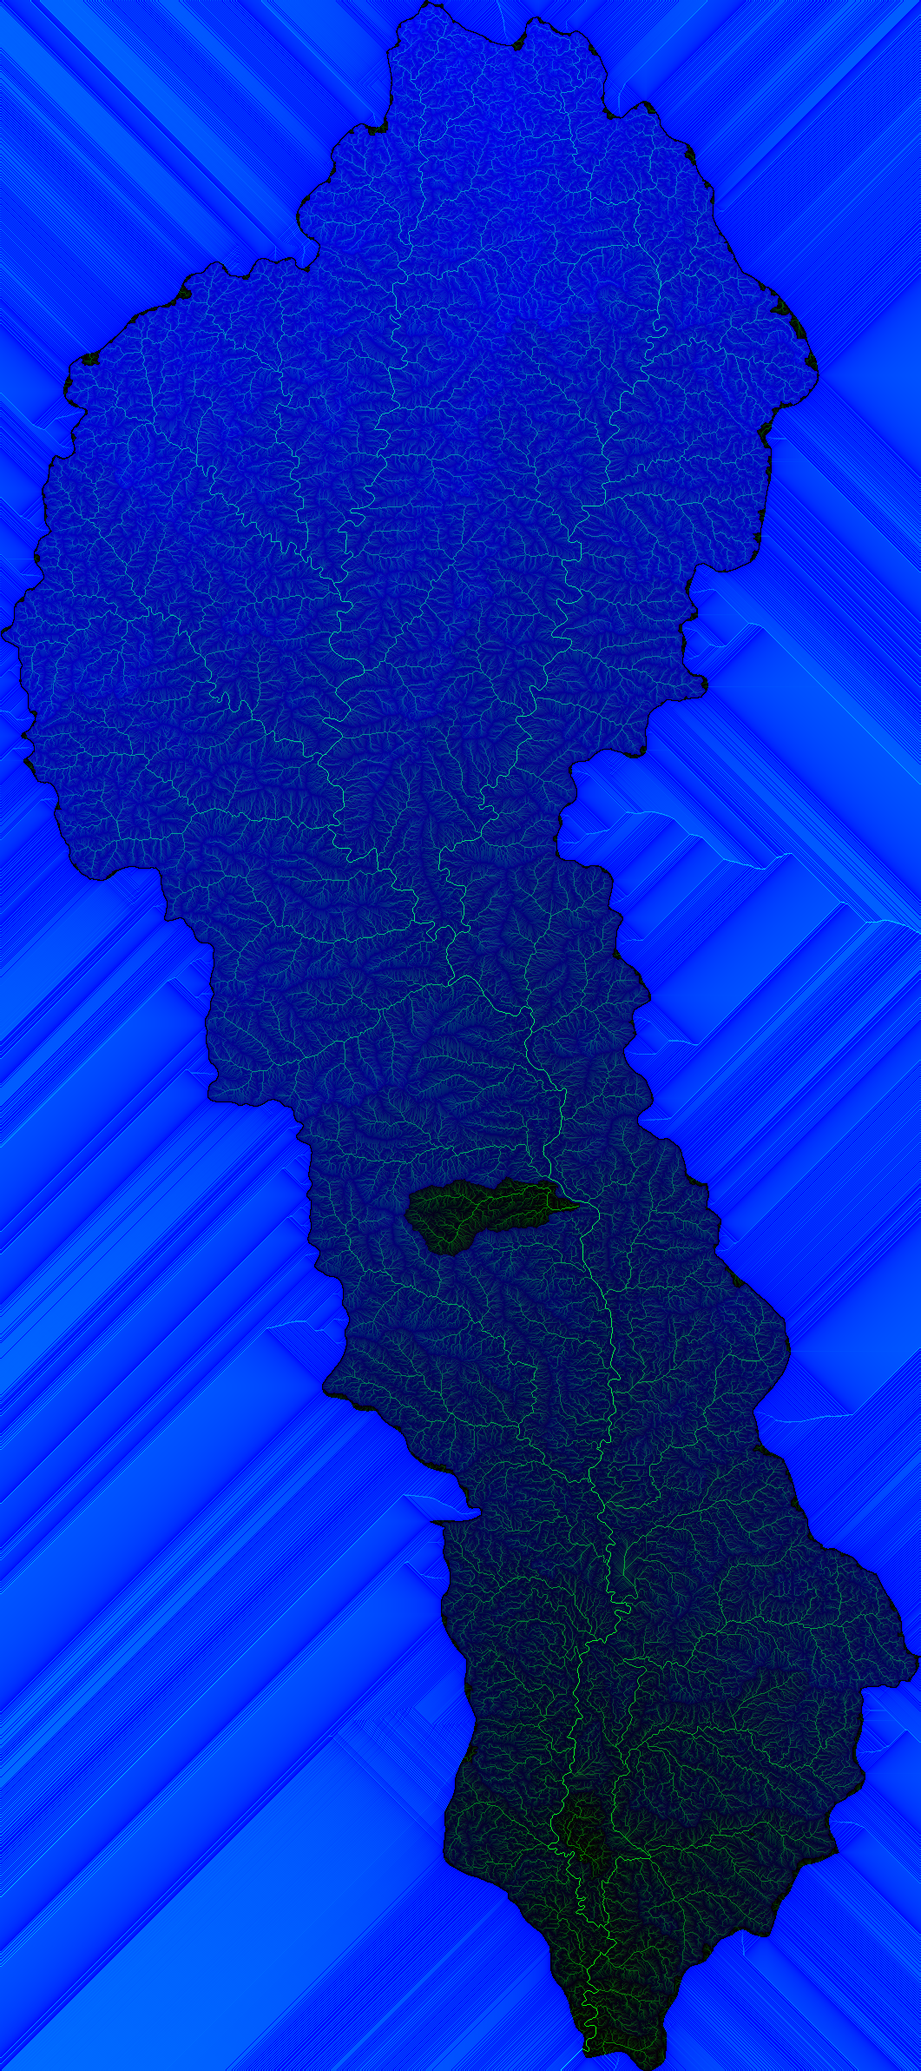
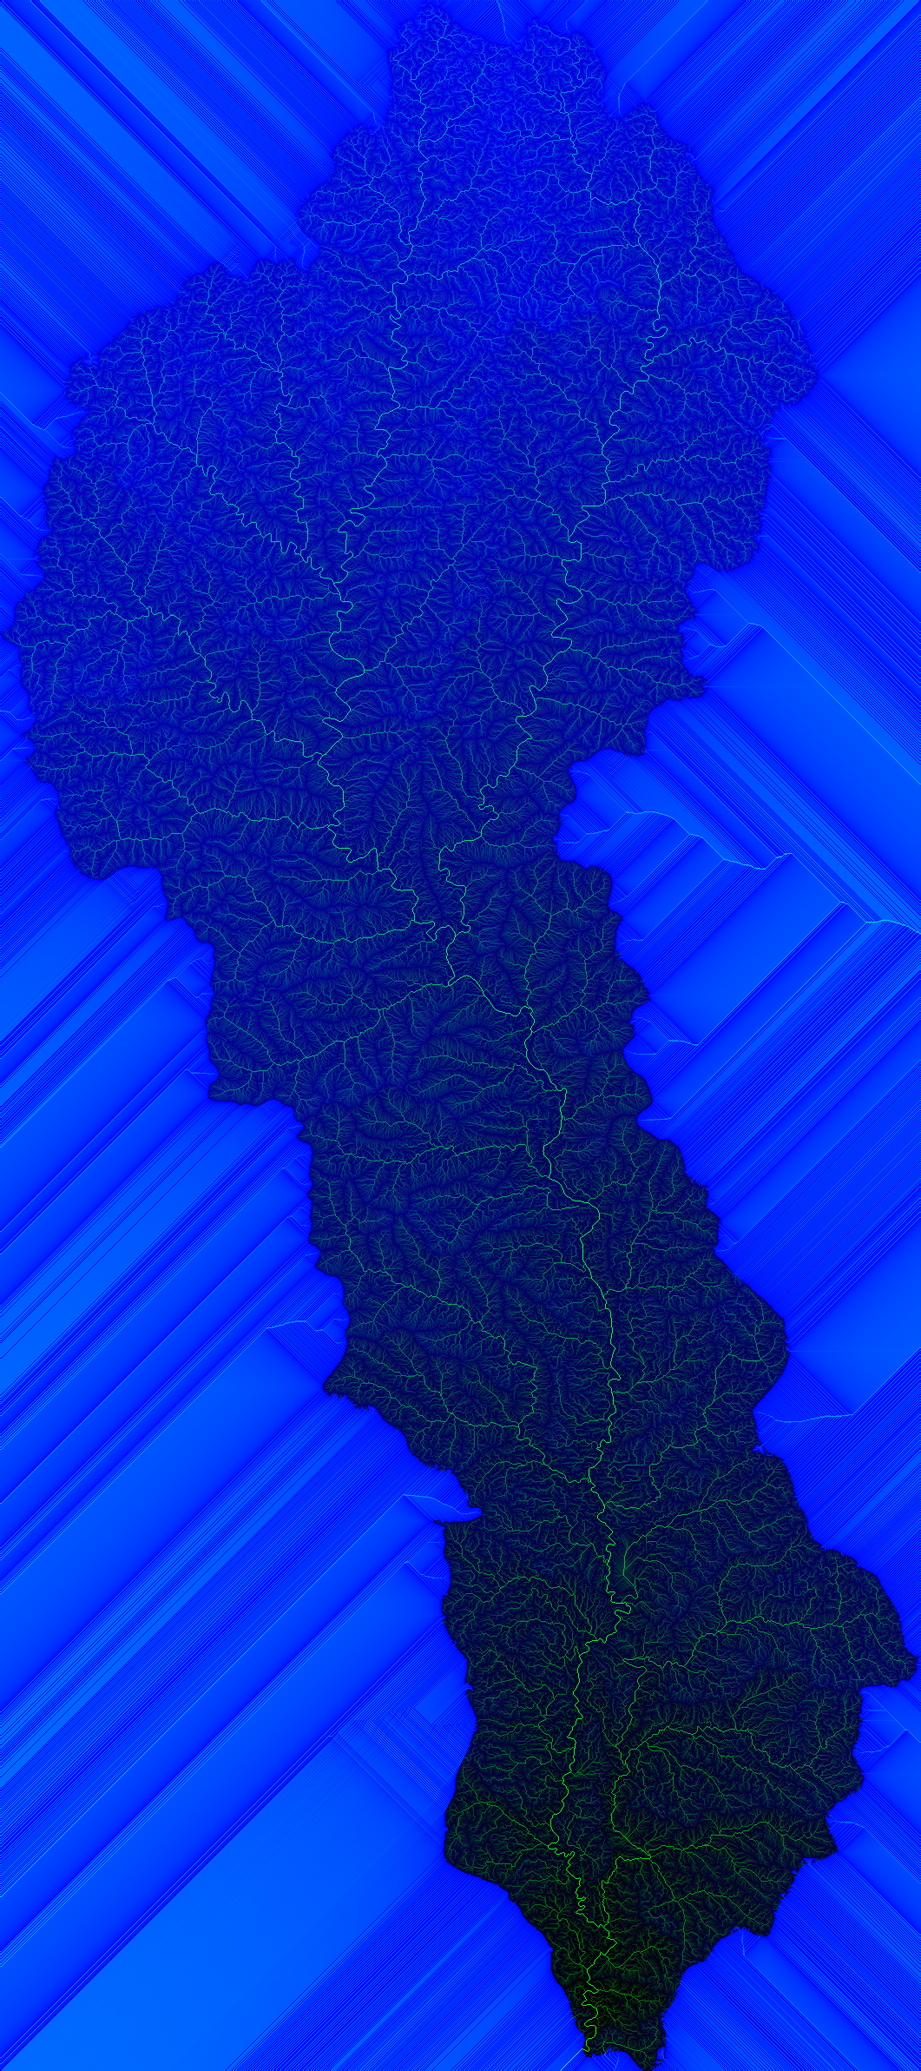
Tempo até a foz: liga as áreas planas da várzea e marca as bordas que saem da bacia
O D8 deixava 2.626 células planas sem direção; tudo que escoava para elas e as
células da borda que saem do contorno ficavam com tempo 0. Agora as planas são
ligadas à célula mais próxima que chega na foz, e o que sai pela borda (0,8%)
fica em cinza e fora do hidrograma.

Claude-Session: https://claude.ai/code/session_01Jto5KDE7a9mbw95tFGG1gU

diff --git a/public/index.html b/public/index.html
@@ -260,7 +260,7 @@ button:focus-visible, input:focus-visible { outline: 2px solid var(--accent); ou
     <section class="box note" aria-labelledby="h-como">
       <div class="label" id="h-como">Como funciona</div>
       <p>O caminho da água vem do <b>modelo de terreno de 30 m</b>: cada ponto escoa para o vizinho mais baixo, e somando esses caminhos aparecem os arroios e rios. É o mesmo cálculo usado em QGIS para delimitar bacias.</p>
-      <p>O tempo até a foz usa velocidades típicas: <b>0,3 m/s</b> escorrendo pela encosta, <b>1,0 m/s</b> nos arroios e <b>1,5 m/s</b> nos rios principais. A vazão é calculada pelo método tempo-área, sem o amortecimento da cheia ao longo do rio.</p>
+      <p>O tempo até a foz usa velocidades típicas: <b>0,3 m/s</b> escorrendo pela encosta, <b>1,0 m/s</b> nos arroios e <b>1,5 m/s</b> nos rios principais. A vazão é calculada pelo método tempo-área, sem o amortecimento da cheia ao longo do rio. Numa faixa estreita das bordas, menos de 1% da área (em cinza na camada Tempo até a foz) escoa, pelo modelo de terreno, para fora do contorno oficial da bacia e não entra no cálculo da foz.</p>
       <p>Quanto da chuva vira enxurrada sai do método <b>SCS Curva-Número</b>: cada ponto recebe um número conforme o uso do solo (MapBiomas 2025) e o grupo hidrológico do solo (mapa de solos 1:250.000, classificado conforme Sartori, Lombardi Neto e Genovez, 2005). Floresta em solo profundo retém muito; lavoura em Neossolo raso escoa muito. O mapa de solos é grosseiro para uma propriedade; ensaios de infiltração em campo melhoram bastante a estimativa local.</p>
       <p>Os números servem para <b>comparar lugares e cenários</b> e entender a dinâmica. Para valores absolutos de vazão é preciso calibrar com medições de chuva e vazão.</p>
       <p>O nível de cheia marca como alagado todo ponto cuja altura acima do rio mais próximo é menor que o nível escolhido. A altura do rio é a do ponto mais baixo do terreno a até 90 m do canal, porque o modelo de terreno mede o topo da mata ciliar e deixaria o rio mais alto que a várzea. A área alagada não conta o próprio leito do rio. O terreno tem precisão vertical de alguns metros, então os primeiros 1 a 2 m mostram as partes mais baixas da várzea.</p>
@@ -321,7 +321,7 @@ button:focus-visible, input:focus-visible { outline: 2px solid var(--accent); ou
     return new Promise((ok, erro) => { const im = new Image(); im.onload = () => { const c = document.createElement("canvas"); c.width = im.width; c.height = im.height; const x = c.getContext("2d", { willReadFrequently: true }); x.drawImage(im, 0, 0); ok(x.getImageData(0, 0, im.width, im.height).data); }; im.onerror = erro; im.src = src; });
   }
 
-  Promise.all([carregar("dados.png?v=a708c5e72c"), carregar("base.png?v=1ba96aa9d7"), carregar("fluxo.png?v=9b2d0b3344"), carregar("solo.png?v=1a3ed8eed0"), fetch("meta.json?v=f7c0bc054a").then((r) => r.json())]).then(([d, b, f, so, m]) => {
+  Promise.all([carregar("dados.png?v=a708c5e72c"), carregar("base.png?v=1ba96aa9d7"), carregar("fluxo.png?v=60249eba4d"), carregar("solo.png?v=1a3ed8eed0"), fetch("meta.json?v=dc3eba142c").then((r) => r.json())]).then(([d, b, f, so, m]) => {
     meta = m;
     handA = new Uint8Array(N); handR = new Uint8Array(N); uso = new Uint8Array(N); canal = new Uint8Array(N); hsg = new Uint8Array(N); app = new Uint8Array(N);
     sombra = new Uint8Array(N); regiao = new Uint8Array(N); dentro = new Uint8Array(N); dir = new Uint8Array(N); accl = new Uint8Array(N); tt = new Uint8Array(N);
@@ -376,7 +376,8 @@ button:focus-visible, input:focus-visible { outline: 2px solid var(--accent); ou
       let c = [sl[0] + (sh[0] - sl[0]) * t, sl[1] + (sh[1] - sl[1]) * t, sl[2] + (sh[2] - sl[2]) * t];
       if (st.uso && uso[i]) c = mix(c, pal.uso[uso[i]].map((v) => v * (0.55 + 0.45 * t)), 0.55);
       if (st.esc && qmm) { const f = Math.min(qmm[i] / st.chuva, 1); const dp = pal["--drop"]; c = mix(c, dp.map((v) => v * (0.55 + 0.45 * t)), 0.1 + 0.8 * f); }
-      if (st.iso) { const f = Math.min(tt[i] / tmax, 1); c = mix(c, [i0[0] + (i1[0] - i0[0]) * f, i0[1] + (i1[1] - i0[1]) * f, i0[2] + (i1[2] - i0[2]) * f].map((v) => v * (0.6 + 0.4 * t)), 0.6); }
+      if (st.iso && tt[i] >= 253) c = mix(c, [128, 128, 128], 0.55);
+      else if (st.iso) { const f = Math.min(tt[i] / tmax, 1); c = mix(c, [i0[0] + (i1[0] - i0[0]) * f, i0[1] + (i1[1] - i0[1]) * f, i0[2] + (i1[2] - i0[2]) * f].map((v) => v * (0.6 + 0.4 * t)), 0.6); }
       if (st.sel && st.sel[i]) c = mix(c, sc, 0.42);
       if (banda && tt[i] <= t10 && tt[i] > t10 - 10) c = mix(c, bc, 0.75);
       const hv = H_[i];
@@ -430,7 +431,7 @@ button:focus-visible, input:focus-visible { outline: 2px solid var(--accent); ou
     if (st.sel) h += `<span><span class="sw" style="background:var(--sel)"></span>área que escoa para o ponto</span>`;
     if (st.banda && st.t > 0) h += `<span><span class="sw" style="background:var(--band)"></span>de onde vem a água que passa na foz agora</span>`;
     if (pulso) h += `<span>gotas: chuva de 1 h descendo até a foz</span>`;
-    if (st.iso) h += `<span>tempo até a foz: 0 h <span class="ramp sw" style="width:70px;background:linear-gradient(90deg,var(--iso-near),var(--iso-far))"></span> ${fmt(meta.fluxo.t_max_h, 0)} h</span>`;
+    if (st.iso) h += `<span>tempo até a foz: 0 h <span class="ramp sw" style="width:70px;background:linear-gradient(90deg,var(--iso-near),var(--iso-far))"></span> ${fmt(meta.fluxo.t_max_h, 0)} h</span><span><span class="sw" style="background:#808080"></span>escoa para fora da bacia</span>`;
     if (st.esc) h += `<span>enxurrada: pouca <span class="ramp sw" style="width:60px;background:linear-gradient(90deg,var(--shade-lo),var(--drop))"></span> toda a chuva</span>`;
     if (st.dc && dcEst.length) h += `<span><span class="sw" style="background:#69a82f;border-radius:50%"></span><span class="sw" style="background:#faba00;border-radius:50%"></span><span class="sw" style="background:#e67819;border-radius:50%"></span><span class="sw" style="background:#e20228;border-radius:50%"></span>rio: normal → inundação</span><span><span class="sw" style="background:var(--drop);border-radius:50%"></span>pluviômetro (chuva 24 h)</span>`;
     if (st.pluv && pluvEst.length) h += `<span><span class="sw" style="background:var(--pluv-u)"></span>UNISC</span><span><span class="sw" style="background:var(--pluv-c);clip-path:polygon(50% 0,100% 100%,0 100%)"></span>CEMADEN (chuva em 24 h)</span>`;
@@ -553,7 +554,7 @@ button:focus-visible, input:focus-visible { outline: 2px solid var(--accent); ou
     const area = n * PX_KM2;
     $("s-area").textContent = area < 10 ? fmt(area, 2) : fmt(area, 0);
     $("s-dist").textContent = fmt(dist / 1000, 1);
-    $("s-tempo").textContent = fmt(tt[i] / 10, 1);
+    $("s-tempo").textContent = tt[i] >= 253 ? "–" : fmt(tt[i] / 10, 1);
     $("s-perc").textContent = fmt(area / meta.area_bacia_km2 * 100, area / meta.area_bacia_km2 < 0.01 ? 2 : 1) + "%";
     const tot = Math.max(1, n);
     $("s-uso").innerHTML = USO.map((u, k) => ({ u, k, v: porUso[k] })).filter((o) => o.u && o.v / tot >= 0.01).sort((a, b) => b.v - a.v).slice(0, 5)
@@ -597,7 +598,7 @@ button:focus-visible, input:focus-visible { outline: 2px solid var(--accent); ou
     for (let k = 0; k < validos.length; k++) {
       const i = validos[k], u = uso[i] || 3, h = hsg[i] || 3, qb = Lb[u * 5 + h];
       const ua = st.appOn && app[i] && u !== 7 && u !== 8 ? 1 : u, q = temCen ? Lc[ua * 5 + h] : qb;
-      qmm[i] = q; volH[tt[i]] += q * 0.9; volBase[tt[i]] += qb * 0.9; soma += q;
+      qmm[i] = q; if (tt[i] < 253) { volH[tt[i]] += q * 0.9; volBase[tt[i]] += qb * 0.9; } soma += q;
     }
     $("k-esc").textContent = fmt(soma / validos.length / Pm * 100, 0) + "%";
     $("k-vol").textContent = fmt(soma * 0.9 / 1e6, 1);
@@ -693,7 +694,7 @@ button:focus-visible, input:focus-visible { outline: 2px solid var(--accent); ou
     if (i < 0 || !dentro[i]) { p.hidden = true; return; }
     const akm = Math.pow(10, accl[i] / 40) * PX_KM2, hv = (st.ref === "rios" ? handR : handA)[i];
     const u = USO[uso[i]] ? USO[uso[i]].nome : "sem classe";
-    p.innerHTML = `<div class="label">Ponto</div><div class="t">Escoam para cá: ${akm < 1 ? fmt(akm, 2) : fmt(akm, 0)} km²</div><div class="t">Até a foz: ${fmt(tt[i] / 10, 1)} h</div><div class="t">Altura acima do rio: ${hv >= 254 ? "> 25 m" : fmt(hv / 10, 1) + " m"}</div><div class="t">${u}${regiao[i] ? " · R" + String(regiao[i]).padStart(2, "0") : ""}</div>`;
+    p.innerHTML = `<div class="label">Ponto</div><div class="t">Escoam para cá: ${akm < 1 ? fmt(akm, 2) : fmt(akm, 0)} km²</div><div class="t">${tt[i] >= 253 ? "Pelo terreno, escoa para fora da bacia" : "Até a foz: " + fmt(tt[i] / 10, 1) + " h"}</div><div class="t">Altura acima do rio: ${hv >= 254 ? "> 25 m" : fmt(hv / 10, 1) + " m"}</div><div class="t">${u}${regiao[i] ? " · R" + String(regiao[i]).padStart(2, "0") : ""}</div>`;
     posicionarProbe(ev, p);
   }
   // estação, pluviômetro ou ponto sob o mouse (até 12 px na tela)
@@ -929,7 +930,7 @@ button:focus-visible, input:focus-visible { outline: 2px solid var(--accent); ou
     let best = -1, bd = 1e9;
     for (let dr = -15; dr <= 15; dr++) for (let dc = -15; dc <= 15; dc++) {
       const r = r0 + dr, c = c0 + dc; if (r < 0 || r >= H || c < 0 || c >= W) continue;
-      const k = r * W + c; if (!dentro[k]) continue;
+      const k = r * W + c; if (!dentro[k] || tt[k] >= 253) continue;
       const dd = dr * dr + dc * dc - accl[k] * 0.02; if (dd < bd) { bd = dd; best = k; }   // prefere o canal
     }
     return best >= 0 ? tt[best] : null;

diff --git a/fonte/index.html b/fonte/index.html
@@ -248,7 +248,7 @@ button:focus-visible, input:focus-visible { outline: 2px solid var(--accent); ou
     <section class="box note" aria-labelledby="h-como">
       <div class="label" id="h-como">Como funciona</div>
       <p>O caminho da água vem do <b>modelo de terreno de 30 m</b>: cada ponto escoa para o vizinho mais baixo, e somando esses caminhos aparecem os arroios e rios. É o mesmo cálculo usado em QGIS para delimitar bacias.</p>
-      <p>O tempo até a foz usa velocidades típicas: <b>0,3 m/s</b> escorrendo pela encosta, <b>1,0 m/s</b> nos arroios e <b>1,5 m/s</b> nos rios principais. A vazão é calculada pelo método tempo-área, sem o amortecimento da cheia ao longo do rio.</p>
+      <p>O tempo até a foz usa velocidades típicas: <b>0,3 m/s</b> escorrendo pela encosta, <b>1,0 m/s</b> nos arroios e <b>1,5 m/s</b> nos rios principais. A vazão é calculada pelo método tempo-área, sem o amortecimento da cheia ao longo do rio. Numa faixa estreita das bordas, menos de 1% da área (em cinza na camada Tempo até a foz) escoa, pelo modelo de terreno, para fora do contorno oficial da bacia e não entra no cálculo da foz.</p>
       <p>Quanto da chuva vira enxurrada sai do método <b>SCS Curva-Número</b>: cada ponto recebe um número conforme o uso do solo (MapBiomas 2025) e o grupo hidrológico do solo (mapa de solos 1:250.000, classificado conforme Sartori, Lombardi Neto e Genovez, 2005). Floresta em solo profundo retém muito; lavoura em Neossolo raso escoa muito. O mapa de solos é grosseiro para uma propriedade; ensaios de infiltração em campo melhoram bastante a estimativa local.</p>
       <p>Os números servem para <b>comparar lugares e cenários</b> e entender a dinâmica. Para valores absolutos de vazão é preciso calibrar com medições de chuva e vazão.</p>
       <p>O nível de cheia marca como alagado todo ponto cuja altura acima do rio mais próximo é menor que o nível escolhido. A altura do rio é a do ponto mais baixo do terreno a até 90 m do canal, porque o modelo de terreno mede o topo da mata ciliar e deixaria o rio mais alto que a várzea. A área alagada não conta o próprio leito do rio. O terreno tem precisão vertical de alguns metros, então os primeiros 1 a 2 m mostram as partes mais baixas da várzea.</p>
@@ -364,7 +364,8 @@ button:focus-visible, input:focus-visible { outline: 2px solid var(--accent); ou
       let c = [sl[0] + (sh[0] - sl[0]) * t, sl[1] + (sh[1] - sl[1]) * t, sl[2] + (sh[2] - sl[2]) * t];
       if (st.uso && uso[i]) c = mix(c, pal.uso[uso[i]].map((v) => v * (0.55 + 0.45 * t)), 0.55);
       if (st.esc && qmm) { const f = Math.min(qmm[i] / st.chuva, 1); const dp = pal["--drop"]; c = mix(c, dp.map((v) => v * (0.55 + 0.45 * t)), 0.1 + 0.8 * f); }
-      if (st.iso) { const f = Math.min(tt[i] / tmax, 1); c = mix(c, [i0[0] + (i1[0] - i0[0]) * f, i0[1] + (i1[1] - i0[1]) * f, i0[2] + (i1[2] - i0[2]) * f].map((v) => v * (0.6 + 0.4 * t)), 0.6); }
+      if (st.iso && tt[i] >= 253) c = mix(c, [128, 128, 128], 0.55);
+      else if (st.iso) { const f = Math.min(tt[i] / tmax, 1); c = mix(c, [i0[0] + (i1[0] - i0[0]) * f, i0[1] + (i1[1] - i0[1]) * f, i0[2] + (i1[2] - i0[2]) * f].map((v) => v * (0.6 + 0.4 * t)), 0.6); }
       if (st.sel && st.sel[i]) c = mix(c, sc, 0.42);
       if (banda && tt[i] <= t10 && tt[i] > t10 - 10) c = mix(c, bc, 0.75);
       const hv = H_[i];
@@ -418,7 +419,7 @@ button:focus-visible, input:focus-visible { outline: 2px solid var(--accent); ou
     if (st.sel) h += `<span><span class="sw" style="background:var(--sel)"></span>área que escoa para o ponto</span>`;
     if (st.banda && st.t > 0) h += `<span><span class="sw" style="background:var(--band)"></span>de onde vem a água que passa na foz agora</span>`;
     if (pulso) h += `<span>gotas: chuva de 1 h descendo até a foz</span>`;
-    if (st.iso) h += `<span>tempo até a foz: 0 h <span class="ramp sw" style="width:70px;background:linear-gradient(90deg,var(--iso-near),var(--iso-far))"></span> ${fmt(meta.fluxo.t_max_h, 0)} h</span>`;
+    if (st.iso) h += `<span>tempo até a foz: 0 h <span class="ramp sw" style="width:70px;background:linear-gradient(90deg,var(--iso-near),var(--iso-far))"></span> ${fmt(meta.fluxo.t_max_h, 0)} h</span><span><span class="sw" style="background:#808080"></span>escoa para fora da bacia</span>`;
     if (st.esc) h += `<span>enxurrada: pouca <span class="ramp sw" style="width:60px;background:linear-gradient(90deg,var(--shade-lo),var(--drop))"></span> toda a chuva</span>`;
     if (st.dc && dcEst.length) h += `<span><span class="sw" style="background:#69a82f;border-radius:50%"></span><span class="sw" style="background:#faba00;border-radius:50%"></span><span class="sw" style="background:#e67819;border-radius:50%"></span><span class="sw" style="background:#e20228;border-radius:50%"></span>rio: normal → inundação</span><span><span class="sw" style="background:var(--drop);border-radius:50%"></span>pluviômetro (chuva 24 h)</span>`;
     if (st.pluv && pluvEst.length) h += `<span><span class="sw" style="background:var(--pluv-u)"></span>UNISC</span><span><span class="sw" style="background:var(--pluv-c);clip-path:polygon(50% 0,100% 100%,0 100%)"></span>CEMADEN (chuva em 24 h)</span>`;
@@ -541,7 +542,7 @@ button:focus-visible, input:focus-visible { outline: 2px solid var(--accent); ou
     const area = n * PX_KM2;
     $("s-area").textContent = area < 10 ? fmt(area, 2) : fmt(area, 0);
     $("s-dist").textContent = fmt(dist / 1000, 1);
-    $("s-tempo").textContent = fmt(tt[i] / 10, 1);
+    $("s-tempo").textContent = tt[i] >= 253 ? "–" : fmt(tt[i] / 10, 1);
     $("s-perc").textContent = fmt(area / meta.area_bacia_km2 * 100, area / meta.area_bacia_km2 < 0.01 ? 2 : 1) + "%";
     const tot = Math.max(1, n);
     $("s-uso").innerHTML = USO.map((u, k) => ({ u, k, v: porUso[k] })).filter((o) => o.u && o.v / tot >= 0.01).sort((a, b) => b.v - a.v).slice(0, 5)
@@ -585,7 +586,7 @@ button:focus-visible, input:focus-visible { outline: 2px solid var(--accent); ou
     for (let k = 0; k < validos.length; k++) {
       const i = validos[k], u = uso[i] || 3, h = hsg[i] || 3, qb = Lb[u * 5 + h];
       const ua = st.appOn && app[i] && u !== 7 && u !== 8 ? 1 : u, q = temCen ? Lc[ua * 5 + h] : qb;
-      qmm[i] = q; volH[tt[i]] += q * 0.9; volBase[tt[i]] += qb * 0.9; soma += q;
+      qmm[i] = q; if (tt[i] < 253) { volH[tt[i]] += q * 0.9; volBase[tt[i]] += qb * 0.9; } soma += q;
     }
     $("k-esc").textContent = fmt(soma / validos.length / Pm * 100, 0) + "%";
     $("k-vol").textContent = fmt(soma * 0.9 / 1e6, 1);
@@ -681,7 +682,7 @@ button:focus-visible, input:focus-visible { outline: 2px solid var(--accent); ou
     if (i < 0 || !dentro[i]) { p.hidden = true; return; }
     const akm = Math.pow(10, accl[i] / 40) * PX_KM2, hv = (st.ref === "rios" ? handR : handA)[i];
     const u = USO[uso[i]] ? USO[uso[i]].nome : "sem classe";
-    p.innerHTML = `<div class="label">Ponto</div><div class="t">Escoam para cá: ${akm < 1 ? fmt(akm, 2) : fmt(akm, 0)} km²</div><div class="t">Até a foz: ${fmt(tt[i] / 10, 1)} h</div><div class="t">Altura acima do rio: ${hv >= 254 ? "> 25 m" : fmt(hv / 10, 1) + " m"}</div><div class="t">${u}${regiao[i] ? " · R" + String(regiao[i]).padStart(2, "0") : ""}</div>`;
+    p.innerHTML = `<div class="label">Ponto</div><div class="t">Escoam para cá: ${akm < 1 ? fmt(akm, 2) : fmt(akm, 0)} km²</div><div class="t">${tt[i] >= 253 ? "Pelo terreno, escoa para fora da bacia" : "Até a foz: " + fmt(tt[i] / 10, 1) + " h"}</div><div class="t">Altura acima do rio: ${hv >= 254 ? "> 25 m" : fmt(hv / 10, 1) + " m"}</div><div class="t">${u}${regiao[i] ? " · R" + String(regiao[i]).padStart(2, "0") : ""}</div>`;
     posicionarProbe(ev, p);
   }
   // estação, pluviômetro ou ponto sob o mouse (até 12 px na tela)
@@ -917,7 +918,7 @@ button:focus-visible, input:focus-visible { outline: 2px solid var(--accent); ou
     let best = -1, bd = 1e9;
     for (let dr = -15; dr <= 15; dr++) for (let dc = -15; dc <= 15; dc++) {
       const r = r0 + dr, c = c0 + dc; if (r < 0 || r >= H || c < 0 || c >= W) continue;
-      const k = r * W + c; if (!dentro[k]) continue;
+      const k = r * W + c; if (!dentro[k] || tt[k] >= 253) continue;
       const dd = dr * dr + dc * dc - accl[k] * 0.02; if (dd < bd) { bd = dd; best = k; }   // prefere o canal
     }
     return best >= 0 ? tt[best] : null;

diff --git a/scripts/fluxo.py b/scripts/fluxo.py
@@ -26,25 +26,67 @@ code[valid & ~ok] = 0
 # velocidades assumidas (m/s): encosta 0,3 | arroio (>=1 km2) 1,0 | rio (>=50 km2) 1,5
 akm = acc * 900 / 1e6
 v = np.where(akm >= 50, 1.5, np.where(akm >= 1, 1.0, 0.3))
-L = np.where((dr != 0) & (dc != 0), 30 * np.sqrt(2), 30.0)
-step = (L / v).ravel()  # s
-# tempo ate a saida: ordem topologica por acumulacao crescente reversa (de jusante para montante)
-order = np.argsort(-acc.ravel(), kind="stable")
-t = np.zeros(H * W)
 vflat = valid.ravel()
-for i in order:
-    if not vflat[i]: continue
-    d = down[i]
-    t[i] = step[i] + (t[d] if d >= 0 else 0.0)
+outlet0 = int(np.argmax(np.where(valid, acc, -1)))
+def raiz(down):
+    # celula final de cada caminho (salto de ponteiros, vetorizado)
+    P = np.where(down >= 0, down, np.arange(H * W)); 
+    while True:
+        Q = P[P]
+        if np.array_equal(Q, P): return P
+        P = Q
+def seguir(down):
+    R = raiz(down); return vflat & (R == outlet0)
+# celulas planas da varzea sem direcao no D8 (o resolve_flats nao resolve todas): liga cada uma, pelo caminho
+# mais curto, a celula vizinha mais proxima que ja chega na foz
+from collections import deque
+viz8 = [(-1, 0), (-1, 1), (0, 1), (1, 1), (1, 0), (1, -1), (0, -1), (-1, -1)]
+COD = {(-1, 0): 1, (-1, 1): 2, (0, 1): 3, (1, 1): 4, (1, 0): 5, (1, -1): 6, (0, -1): 7, (-1, -1): 8}
+reach = seguir(down)
+borda = valid & ~(np.pad(valid, 1)[:-2, 1:-1] & np.pad(valid, 1)[2:, 1:-1] & np.pad(valid, 1)[1:-1, :-2] & np.pad(valid, 1)[1:-1, 2:])
+term = np.flatnonzero(vflat & (down < 0) & ~borda.ravel() & ~reach); term = term[term != outlet0]
+for s in term:
+    if reach[s]: continue
+    prev = {s: -1}; q = deque([s]); alvo = -1
+    while q:
+        c = q.popleft(); r0, c0 = divmod(c, W)
+        if reach[c] and c != s: alvo = c; break
+        for a, b in viz8:
+            r1, c1 = r0 + a, c0 + b
+            if 0 <= r1 < H and 0 <= c1 < W and valid[r1, c1] and (r1 * W + c1) not in prev:
+                prev[r1 * W + c1] = c; q.append(r1 * W + c1)
+    if alvo < 0: continue
+    c = alvo
+    while prev[c] != -1:
+        p = prev[c]; pr, pc = divmod(p, W); cr, cc_ = divmod(c, W)
+        down[p] = c; code[pr, pc] = COD[(cr - pr, cc_ - pc)]; dr[pr, pc] = cr - pr; dc[pr, pc] = cc_ - pc
+        c = p
+    reach = seguir(down)
+print("planos religados:", len(term))
+# tempo ate a saida (memo iterativo seguindo o caminho)
+L = np.where((dr != 0) & (dc != 0), 30 * np.sqrt(2), 30.0)
+step = (L / v).ravel()
+S_ = np.where(vflat, step, 0.0); P = down.copy()
+while (P >= 0).any():
+    m = P >= 0
+    S_[m] += S_[P[m]]
+    Pn = np.full_like(P, -1); Pn[m] = P[P[m]]; P = Pn
+t = S_
+order = np.argsort(-acc.ravel(), kind="stable")
+# celulas cujo caminho sai do recorte da bacia antes de chegar na foz (o divisor do MDE nao coincide
+# com o contorno oficial nas bordas): nao contribuem para a foz -> codigo 253 no canal B
+reach = reach.reshape(H, W)
+print("nao chegam na foz: %.1f km2 (%.1f%%)" % ((valid & ~reach).sum() * 900 / 1e6, 100 * (valid & ~reach).sum() / valid.sum()))
 th = t.reshape(H, W) / 3600.0
-print("tempo max h", round(th[valid].max(), 1), "mediana", round(np.median(th[valid]), 1))
+th[~reach] = np.nan
+print("tempo max h", round(np.nanmax(th[valid]), 1), "mediana", round(np.nanmedian(th[valid]), 1))
 outlet = int(np.argmax(acc)); print("foz", divmod(outlet, W), "acc km2", round(akm.ravel()[outlet], 1))
 G = np.clip(np.log10(np.maximum(acc, 1)) * 40, 0, 255).astype("uint8")
-B = np.clip(np.round(th * 10), 0, 254).astype("uint8"); B[~valid] = 255
+B = np.clip(np.round(np.nan_to_num(th) * 10), 0, 252).astype("uint8"); B[valid & ~reach] = 253; B[~valid] = 255
 R = code.copy()
 Image.fromarray(np.dstack([R, G, B])).save(SITE + "/fluxo.png", optimize=True)
 meta = json.load(open(SITE + "/meta.json", encoding="utf-8"))
-meta["fluxo"] = {"foz": outlet, "vel": {"encosta": 0.3, "arroio": 1.0, "rio": 1.5}, "t_max_h": round(float(th[valid].max()), 1)}
+meta["fluxo"] = {"foz": outlet, "vel": {"encosta": 0.3, "arroio": 1.0, "rio": 1.5}, "t_max_h": round(float(np.nanmax(th[valid])), 1)}
 json.dump(meta, open(SITE + "/meta.json", "w", encoding="utf-8"), ensure_ascii=False)
 # checa consistencia: quantas celulas chegam na foz
 seen = 0
